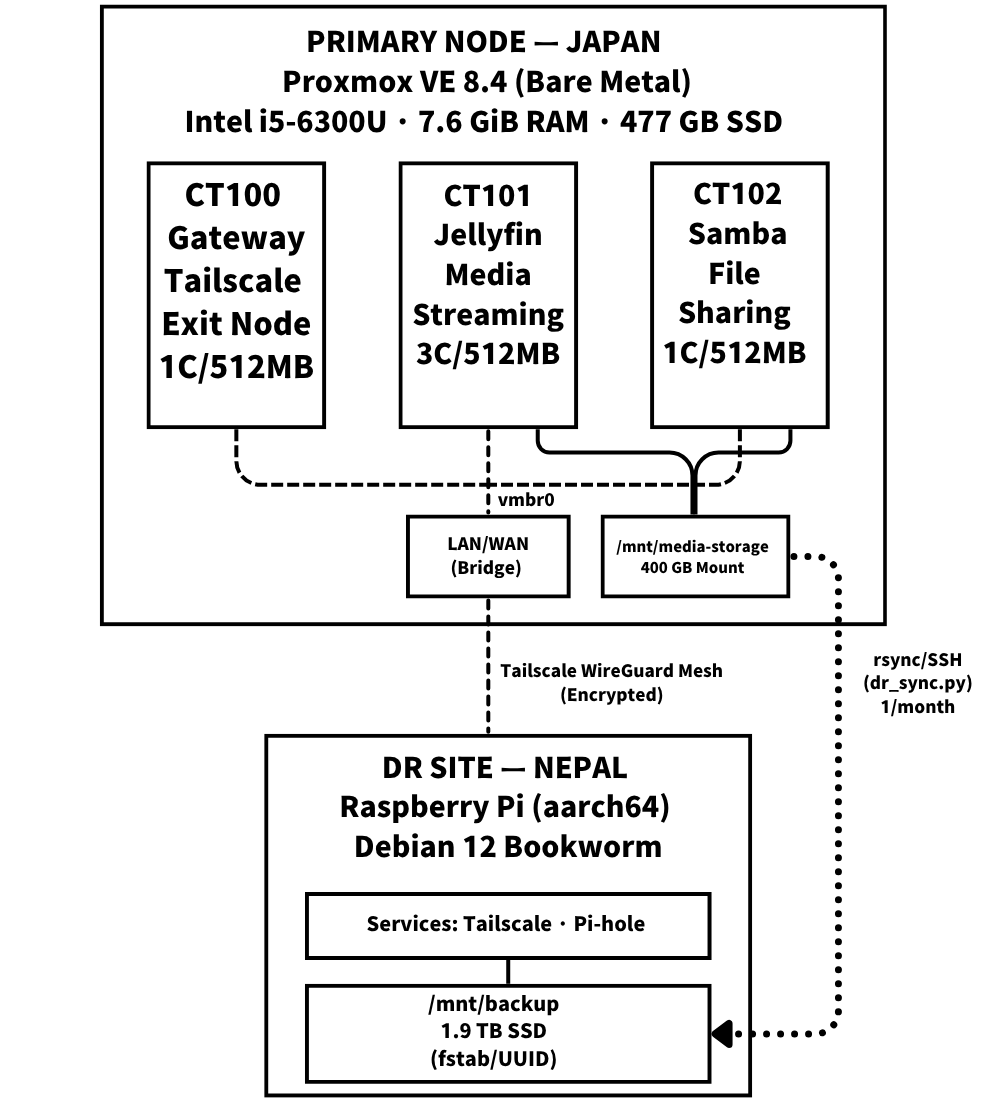
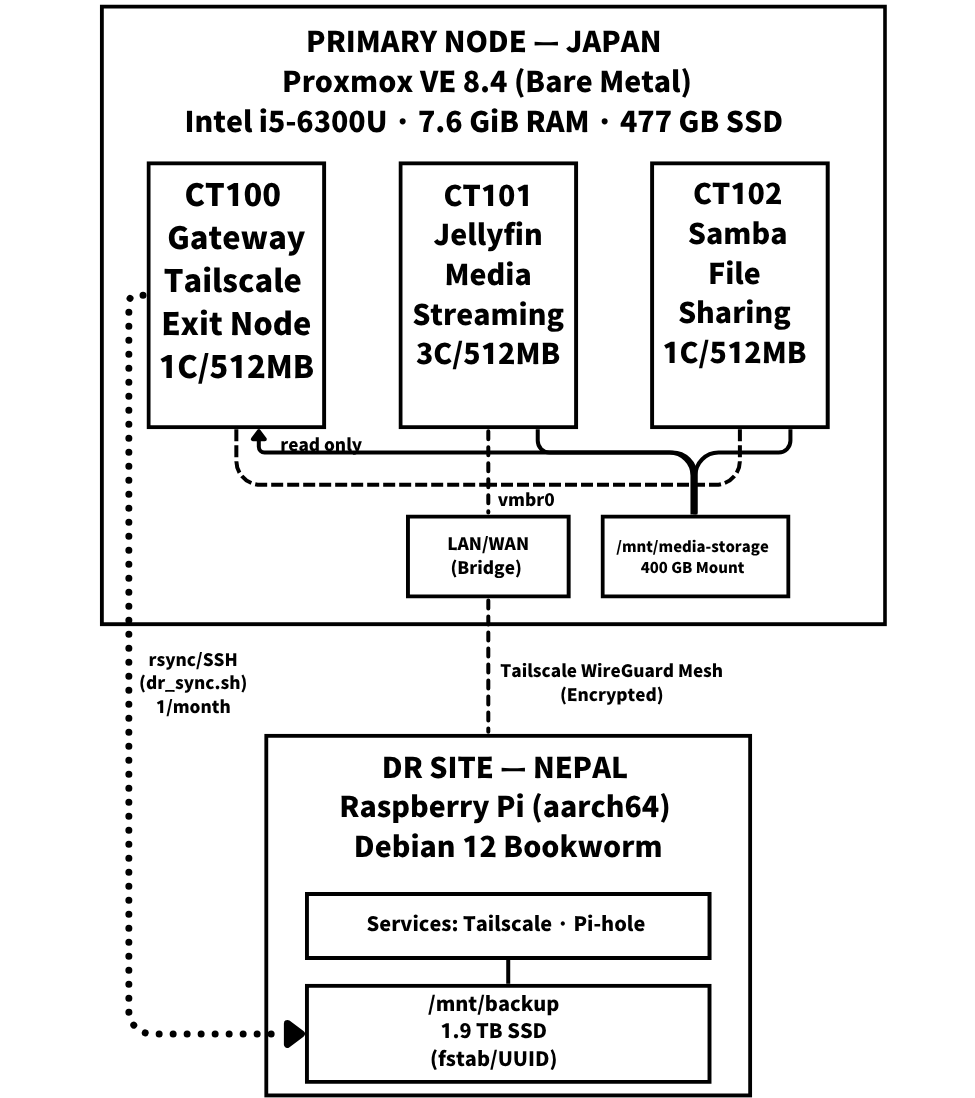
fix: improve script robustness and align docs with deployment

diff --git a/scripts/healthcheck.py b/scripts/healthcheck.py
@@ -2,6 +2,7 @@
 import subprocess
 import shutil
 import datetime
+import sys
 
 # Define core infrastructure nodes using Tailscale IPs
 NODES = {
@@ -10,6 +11,18 @@ NODES = {
 }
 
 MEDIA_PATH = "/mnt/media-storage"
+LOG_FILE = "/var/log/healthcheck.log"
+
+
+def log(message):
+    """Prints to stdout and appends to the log file."""
+    print(message)
+    try:
+        with open(LOG_FILE, "a") as f:
+            f.write(message + "\n")
+    except OSError as e:
+        print(f"WARNING: Could not write to {LOG_FILE}: {e}", file=sys.stderr)
+
 
 def check_ping(ip):
     """
@@ -18,34 +31,48 @@ def check_ping(ip):
     """
     try:
         # Run: pct exec 100 -- ping -c 1 -W 2 <IP>
-        output = subprocess.run(
+        result = subprocess.run(
             ["pct", "exec", "100", "--", "ping", "-c", "1", "-W", "2", ip],
             stdout=subprocess.PIPE,
             stderr=subprocess.PIPE
         )
-        return output.returncode == 0
-    except Exception:
+        return result.returncode == 0
+    except FileNotFoundError:
+        log(f"ERROR: 'pct' command not found. Is this running on the Proxmox host?")
+        return False
+    except OSError as e:
+        log(f"ERROR: Failed to execute ping for {ip}: {e}")
         return False
 
+
 def check_storage(path):
-    """Returns free space in GB."""
+    """Returns free space in GB, or -1 if the path does not exist."""
     try:
         usage = shutil.disk_usage(path)
         return usage.free / (1024**3)
     except FileNotFoundError:
         return -1
 
-if __name__ == "__main__":
-    print(f"--- Infrastructure Health Report: {datetime.datetime.now().strftime('%Y-%m-%d %H:%M')} ---")
-    
-    print("\n[Network Status]")
-    for name, ip in NODES.items():
-        status = "ONLINE" if check_ping(ip) else "OFFLINE"
-        print(f"{name} ({ip}): {status}")
 
-    print("\n[Storage Status]")
+if __name__ == "__main__":
+    has_failures = False
+
+    log(f"--- Infrastructure Health Report: {datetime.datetime.now().strftime('%Y-%m-%d %H:%M')} ---")
+
+    log("\n[Network Status]")
+    for name, ip in NODES.items():
+        is_online = check_ping(ip)
+        status = "ONLINE" if is_online else "OFFLINE"
+        log(f"{name} ({ip}): {status}")
+        if not is_online:
+            has_failures = True
+
+    log("\n[Storage Status]")
     free_space = check_storage(MEDIA_PATH)
     if free_space != -1:
-        print(f"Primary Media Pool: {free_space:.2f} GB free")
+        log(f"Primary Media Pool: {free_space:.2f} GB free")
     else:
-        print("Primary Media Pool: MOUNT POINT NOT FOUND")
+        log("Primary Media Pool: MOUNT POINT NOT FOUND")
+        has_failures = True
+
+    sys.exit(1 if has_failures else 0)

diff --git a/docs/disaster-recovery.md b/docs/disaster-recovery.md
@@ -101,9 +101,9 @@ With `nofail`, the system boots normally even if the mount fails. The Pi comes o
 
 `nofail` があれば、マウントが失敗してもシステムは正常にブートします。Pi がオンラインになり、Tailscale が接続し、SSH アクセスが復旧 — ドライブのマウント失敗の原因をリモートで診断できます。
 
-> **Engineering trade-off / エンジニアリング上のトレードオフ**: The risk of `nofail` is that the backup sync script might run successfully against an empty `/mnt/backup` directory (just a mount point on the root filesystem) if the SSD fails to mount. This would not replicate any data. A future improvement would be to add a pre-sync mount verification step in `dr_sync.sh`.
+> **Engineering trade-off / エンジニアリング上のトレードオフ**: The risk of `nofail` is that the backup sync script might run against an empty `/mnt/backup` directory (just a mount point on the root filesystem) if the SSD fails to mount. To mitigate this, `dr_sync.sh` performs a `mountpoint -q` check on both the source and destination mounts before starting the sync, aborting with a logged error if either is not a mounted filesystem.
 
-> `nofail` のリスクは、SSD のマウントに失敗した場合、バックアップ同期スクリプトが空の `/mnt/backup` ディレクトリ（ルートファイルシステム上のマウントポイントのみ）に対して正常に実行される可能性があることです。この場合、データはレプリケーションされません。将来の改善として、`dr_sync.sh` に同期前のマウント検証ステップを追加することが考えられます。
+> `nofail` のリスクは、SSD のマウントに失敗した場合、バックアップ同期スクリプトが空の `/mnt/backup` ディレクトリ（ルートファイルシステム上のマウントポイントのみ）に対して実行される可能性があることです。これを軽減するため、`dr_sync.sh` は同期開始前にソースと宛先の両マウントに対して `mountpoint -q` チェックを実行し、いずれかがマウントされたファイルシステムでない場合はエラーをログして中止します。
 
 ---
 
@@ -133,9 +133,9 @@ The Japan and Nepal nodes communicate exclusively through a Tailscale WireGuard 
   <img src="../images/Cross-Site%20Routing.png" alt="Cross-Site Routing" width="700">
 </p>
 
-The `rsync` backup script ([`dr_sync.sh`](../scripts/dr_sync.sh)) runs on the Proxmox host and connects to the Nepal Pi using its Tailscale IP (`100.104.209.126`). Because the Proxmox host does not run Tailscale itself, the SSH connection is routed through CT100's network namespace.
+The `rsync` backup script ([`dr_sync.sh`](../scripts/dr_sync.sh)) runs inside the CT100 gateway container, which has direct Tailscale connectivity to the Nepal Pi (`100.104.209.126`). The host's media storage partition is bind-mounted into CT100 as read-only (`ro=1`), giving the script access to the source data without allowing accidental writes from the container.
 
-`rsync` バックアップスクリプト（[`dr_sync.sh`](../scripts/dr_sync.sh)）は Proxmox ホスト上で実行され、Tailscale IP（`100.104.209.126`）を使用してネパールの Pi に接続します。Proxmox ホスト自体は Tailscale を実行していないため、SSH 接続は CT100 のネットワーク名前空間を経由してルーティングされます。
+`rsync` バックアップスクリプト（[`dr_sync.sh`](../scripts/dr_sync.sh)）は CT100 ゲートウェイコンテナ内で実行され、ネパール Pi（`100.104.209.126`）への Tailscale 接続を直接使用します。ホストのメディアストレージパーティションは読み取り専用（`ro=1`）で CT100 にバインドマウントされており、コンテナからの誤った書き込みを防ぎつつ、スクリプトにソースデータへのアクセスを提供します。
 
 ---
 
@@ -186,7 +186,7 @@ rsync -avh --delete \
 ## Sync Schedule Design / 同期スケジュール設計
 
 ```
-# Cron entry (Proxmox host)
+# Cron entry (CT100 gateway container)
 0 2 1 * * /root/scripts/dr_sync.sh
 ```
 
@@ -273,9 +273,9 @@ Being honest about what this setup does *not* do is as important as describing w
 
    **自動復元テストなし** — バックアップはレプリケーションされますが、復元可能性の自動テストは行われていません。将来の改善として、定期的にファイルのサブセットを復元しチェックサムを検証することが考えられます。
 
-2. **No mount verification before sync** — As noted in the [storage mount section](#storage-mount-design--ストレージマウント設計), if the external SSD fails to mount, the sync script would run against an empty directory without error. Adding a `mountpoint -q /mnt/backup` check would address this.
+2. ~~**No mount verification before sync**~~ — **Resolved.** The sync script now performs `mountpoint -q` checks on both the source and destination mounts before starting, aborting with a logged error if either is not mounted.
 
-   **同期前のマウント検証なし** — [ストレージマウント設計セクション](#storage-mount-design--ストレージマウント設計)で述べたように、外付け SSD のマウントに失敗した場合、同期スクリプトはエラーなしに空のディレクトリに対して実行されます。`mountpoint -q /mnt/backup` チェックの追加でこれに対処可能です。
+   ~~**同期前のマウント検証なし**~~ — **解決済み。** 同期スクリプトは、開始前にソースと宛先の両マウントに対して `mountpoint -q` チェックを実行し、いずれかがマウントされていない場合はエラーをログして中止するようになりました。
 
 3. **No alerting on sync failure** — Sync failures are logged to a file but do not trigger any notification. The failure would only be discovered when manually checking logs or running the healthcheck script.
 

diff --git a/docs/architecture.md b/docs/architecture.md
@@ -108,6 +108,7 @@ All containers run as **unprivileged LXC containers**. This is a deliberate secu
 | `cores` | 1 | VPN routing is not CPU-intensive; 1 core is sufficient. |
 | `memory` | 512 MB | Tailscale's `tailscaled` daemon has a small memory footprint. |
 | `rootfs` | 7 GB | Minimal OS install + Tailscale binary. |
+| `mp0` | `/mnt/media-storage` (read-only) | Bind mount of the host's media partition. Mounted `ro=1` so the DR sync script can read source data without write access. |
 | `unprivileged` | 1 | Security best practice (see above). |
 | `features` | `nesting=1` | Required for Tailscale to create its userspace networking. |
 | `onboot` | 1 | Gateway must start automatically — it is the VPN entry point. |